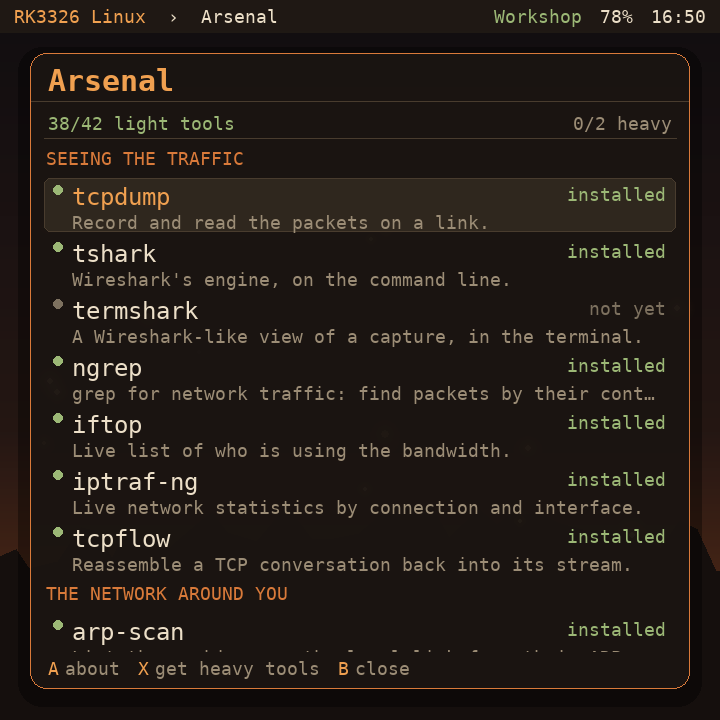
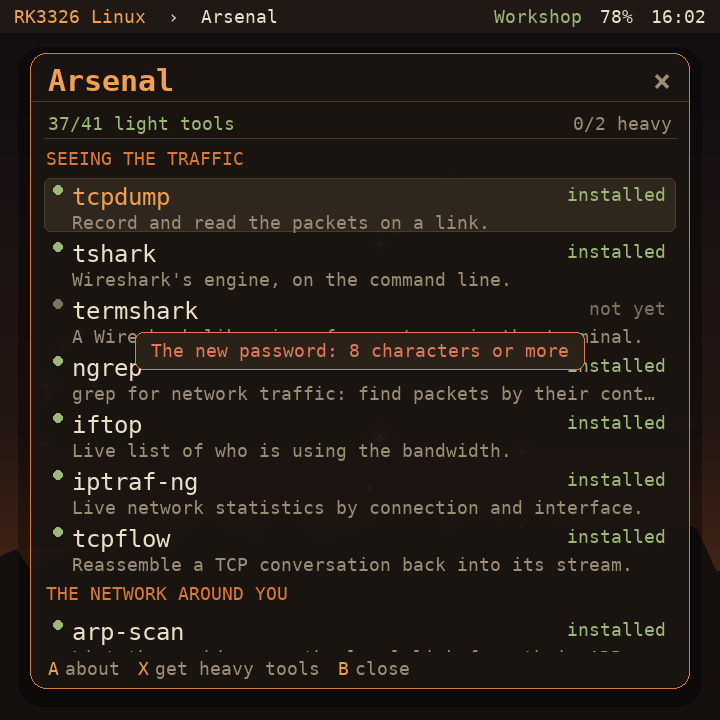
Docs for 1.0.0: status, changelog, fresh screenshots, and the two kernels' drivers
- README: the status block says what is tested, what is in the image but not
  yet tried on a handheld, and the known problems; the feature list names the
  pointer, Ethernet and updates; a picture of the pointer; no more
  Provisioner as a core part (it is not in the image)
- CHANGELOG.md: 1.0.0, and a summary of what came before
- docs/arsenal.md: the 5.10 and 4.4 kernels do not carry the same Wi-Fi
  drivers (4.4 has no ath9k_htc or mt76x0u/mt76x2u)
- the window screenshots redrawn (they predated the x button)

Claude-Session: https://claude.ai/code/session_01Q4KZVDMhXoAKqG54GsZsre

diff --git a/README.md b/README.md
@@ -1,24 +1,37 @@
 # RK3326 Linux
 
 A small Linux system for RK3326 handhelds (R36MAX first, R36S next), built
-as one SD card image: flash it, put it in the handheld, switch on.
+as one SD card image: flash it, put it in the handheld, switch on. The
+current release is **1.0.0**; what changed is in [`CHANGELOG.md`](CHANGELOG.md).
 
 ![The desktop: a dusk wallpaper with fireflies, the time, and a dock of icons](docs/desktop.png)
 
 It is our own system, not a desktop distribution squeezed onto a 4-inch
 screen: a minimal Debian 13 (trixie) on the boot chain and kernels of
-[arkos4clone](https://github.com/lcdyk0517/arkos4clone), meant to grow a
-gamepad-first interface with the Stump, FireFly and the Provisioner as core
-parts, for teaching and authorised testing on your own equipment.
+[arkos4clone](https://github.com/lcdyk0517/arkos4clone), with a
+gamepad-first desktop and FireFly, the Stump and Ember built in, for teaching
+and authorised testing on your own equipment.
 
-> **Status: runs on an R36MAX (type 1 board), tested through 2026-11-21.**
-> Kernel 5.10, the screen, a USB keyboard, Wi-Fi on an RT3070 dongle, SSH,
-> the data partition, power-off and restart, and charging work on that
-> handheld; so do the FireFly, Stump and Ember apps, the volume keys, the
-> speaker and 3.5 mm jack switching, a USB microphone, and the Wi-Fi
-> adapter-readiness check. No other handheld has been tried. The build also
-> checks what can be checked without hardware, including a rehearsal of the
-> first start's partition step.
+> **Status: 1.0.0 runs on an R36MAX (type 1 board), tested through 2026-11-22.**
+>
+> *Works on that handheld:* kernel 5.10, the screen, the desktop and its
+> pointer, a USB keyboard, Wi-Fi on an RT3070 dongle, SSH, the data
+> partition, power-off and restart, charging, updating from Settings, the
+> FireFly, Stump and Ember apps, the volume keys, the speaker and 3.5 mm jack
+> switching, a USB microphone, and the Wi-Fi adapter-readiness check.
+>
+> *In the image but not yet tried on a handheld:* Wi-Fi dongles other than
+> the RT3070, USB Ethernet, a USB mouse, and the 4.4 fallback kernel's
+> drivers for them.
+>
+> *Not tried at all:* any other handheld, the R36S included.
+>
+> *Known problems:* Ember makes no sound yet, and an app can leave the
+> display's hardware cursor frozen over the desktop after it quits (a
+> restart clears it).
+>
+> The build also checks what can be checked without hardware, including a
+> rehearsal of the first start's partition step.
 
 ## What the image does
 
@@ -27,6 +40,8 @@ parts, for teaching and authorised testing on your own equipment.
 - Boots to its own **desktop**, driven by the gamepad: a dock at the bottom
   whose icons grow under the cursor, and windows for Files, Terminal, Scan,
   Arsenal, Survey, Network, Devices, Sound, Apps and Settings. A USB keyboard works too.
+- The **left stick moves a pointer** over all of it; A presses what it is
+  on. A USB mouse does the same.
 - **Terminal**: a real shell in a window, with an on-screen keyboard.
 - **Scan**: nmap as a loadout. Pick a target, equip the scan (mission,
   ports, technique, versions, OS guess, script packs, speed), see what it
@@ -37,7 +52,10 @@ parts, for teaching and authorised testing on your own equipment.
 - **Survey**: every Wi-Fi access point in range, with its channel, signal
   and security, and how crowded each channel is.
 - Joins the Wi-Fi network you put in `wifi.txt`, or one you pick in the
-  Network window, and answers **SSH**.
+  Network window, and answers **SSH**. A **network cable** on a USB adapter
+  or hub connects by itself.
+- **Updates itself** from Settings, without a reflash and without touching
+  your data ([`docs/updates.md`](docs/updates.md)).
 - Makes its own SSH host keys and a data partition at the first start.
 
 On the dock as well: **FireFly**, **Stump** and **Ember** — our own apps,
@@ -99,6 +117,8 @@ a driver took it and whether a firmware file was missing.
 | SELECT+START | quit an app, back to the dock |
 | Volume keys | volume |
 | Left stick | move the pointer |
+
+![The pointer on the dock: the icon under it is the grown, selected one](docs/pointer.png)
 
 The **left stick moves a pointer** everywhere on the desktop: over the dock,
 in every window, on the on-screen keyboard. Point at something and press

diff --git a/CHANGELOG.md b/CHANGELOG.md
@@ -1,0 +1,67 @@
+# Changes
+
+What changed in each release, newest first. A handheld takes a new release
+from **Settings → Update this handheld**; what an update can and cannot
+replace is in [`docs/updates.md`](docs/updates.md).
+
+## 1.0.0 — 2026-11-22
+
+The first full release. Tested on an R36MAX (type 1 board); no other
+handheld has been tried.
+
+**New since 0.9.2**
+
+- **A pointer on the desktop.** The left stick moves it, A presses what it is
+  on, and it goes away after three seconds of rest or at the first d-pad
+  press. On the dock the icon under it grows as the selected one, and the
+  screen's left and right edges bring in the icons that did not fit. Every
+  window has a × that does what B does. A USB mouse works the same way.
+- **The stick is a mouse for apps too** (`rk-mouse`): the triggers click and
+  the shoulders are the wheel. A dock entry can say `"mouse": false` to
+  switch it off while that app runs.
+- **Updates without reflashing.** Settings → Update this handheld replaces
+  the desktop and the system's own files, keeps `/home` and `/data`, and
+  puts the previous version back by itself if the new desktop does not
+  start. Changes to where things are kept are carried forward by numbered
+  migrations.
+- **Stump** can be switched between its stable and sandbox sources in the
+  Apps window, as FireFly already could.
+- **More Wi-Fi dongles start.** The image now carries the network adapters'
+  firmware from the same place as the kernel drivers, next to Debian's. This
+  adds the AIC8800 dongles among others.
+- **Ethernet shows on the desktop.** A USB Ethernet adapter, or a hub or dock
+  with a network socket, connected by itself before; now the menu bar says
+  so, the desktop shows the address, and the Network window has a row for it.
+- **A guide for app builders** ([`docs/building-apps.md`](docs/building-apps.md)):
+  the dock entry, the screen, the controls, the pointer, sound, taking turns,
+  and updates.
+
+**Not yet tried on a handheld**
+
+- Wi-Fi dongles other than the RT3070, USB Ethernet, and a USB mouse.
+
+**Known problems**
+
+- Ember makes no sound yet.
+- An app can leave the display's hardware cursor frozen over the desktop
+  after it quits. A restart clears it.
+- No driver for the MediaTek MT7921AU or the Realtek RTL8852AU / RTL8832AU
+  Wi-Fi 6 dongles.
+- Firmware is outside what an update replaces: a card that was flashed before
+  this release needs a reflash to get the added dongle firmware.
+
+## 0.9.2 and earlier — 2026-11-20 to 2026-11-22
+
+The road to the first release, on an R36MAX:
+
+- The image boots, makes its data partition at the first start, joins Wi-Fi
+  and answers SSH; the speaker, the charging limits and restart were fixed
+  for the R36MAX type 1 board.
+- The desktop: a gamepad-driven shell with a dock, and windows for Files,
+  Terminal, Scan (nmap as a loadout), Arsenal (the security toolset), Survey,
+  Network, Devices, Sound, Apps and Settings.
+- FireFly, the Stump and Ember in the image, the Stump's setup from the dock,
+  and app updates from the Apps window.
+- Sound routing between the speaker, the 3.5 mm jack and USB audio; volume
+  keys everywhere, including inside apps.
+- A readiness line in Arsenal for the plugged-in Wi-Fi adapter.

diff --git a/docs/arsenal.md b/docs/arsenal.md
@@ -58,10 +58,19 @@ Kali included on hardware with a client-only card. So Wi-Fi testing is done
 through a USB adapter whose chipset supports those modes, exactly as it is on
 a laptop whose built-in card cannot.
 
-Both kernels here already carry the common adapter drivers (ath9k_htc, mt76,
-the rt2x00 family, rtl8xxxu, and the out-of-tree Realtek set that covers
-8812au / 8814au / 8188eu), so a supported adapter works without building
-anything. The **Arsenal** window shows a readiness line above the Wi-Fi
+The kernels here already carry the common adapter drivers, so a supported
+adapter works without building anything, but the two kernels do not carry
+the same ones:
+
+- **5.10** (the one the image starts): ath9k_htc, carl9170, the mt76 USB set
+  (mt7601u, mt76x0u, mt76x2u), the rt2x00 family, rtl8xxxu, and Realtek's
+  8812au / 8814au / 8821au / 8821cu / 8822bu / 8188eu / 8852bu.
+- **4.4** (the fallback): the rt2x00 family, mt7601u, and Realtek's vendor
+  drivers (8812au, 8814au, 8821cu, 88x2bu, 8188eu, 8852bu). It has **no**
+  ath9k_htc (AR9271) and no mt76x0u / mt76x2u (MT7610U, MT7612U).
+
+The full list of chips, for ordinary Wi-Fi as well, is in the README under
+*Wi-Fi dongles and Ethernet*. The **Arsenal** window shows a readiness line above the Wi-Fi
 group:
 
 - *Onboard radio is client-only* — no adapter plugged in. Client Wi-Fi works;
@@ -74,7 +83,8 @@ group:
   test confirms it**, so verify injection on your own networks before relying
   on it.
 
-Known-good chipsets for monitor mode and injection on these kernels include
+Chipsets known for monitor mode and injection with these drivers (on kernel
+5.10; not each tested on a handheld) include
 the Atheros AR9271 (ath9k_htc), Ralink RT3070 / RT5370 (rt2800usb), MediaTek
 MT7601U / MT7612U (mt76), and the Realtek RTL8812AU. Check readiness on the
 device rather than trusting a label: the Arsenal line reads the adapter that
